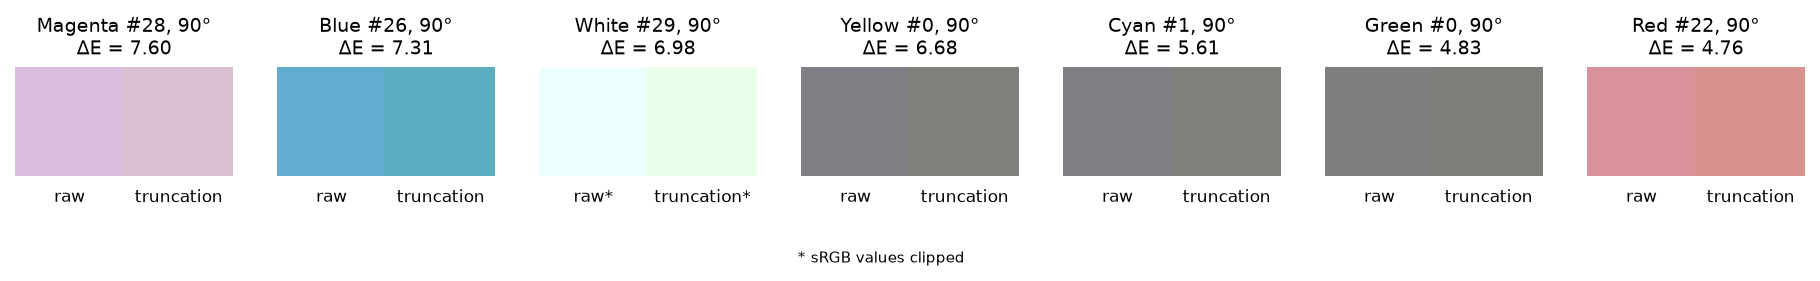
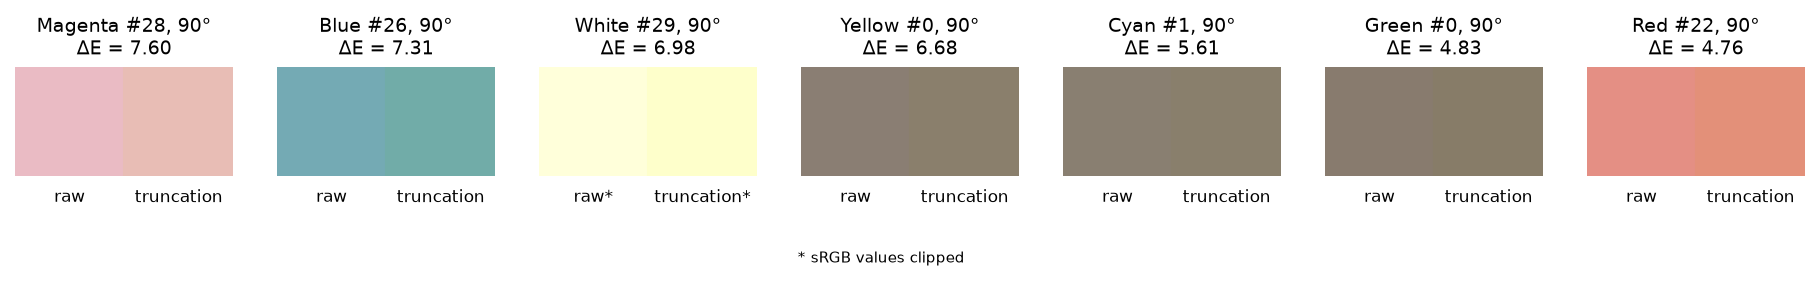
removed chromatic adaptation step

Changed region(s): [[0.0, 0.2278, 0.4308, 0.6263]]

diff --git a/doc/overcoming-spectrophotometer-measurement-limitations/scripts/common.py b/doc/overcoming-spectrophotometer-measurement-limitations/scripts/common.py
@@ -128,8 +128,8 @@ RAMP_HEADER = ["Orientation", "ΔX range", "ΔY range", "ΔZ range", "Δxy mean 
 
 
 def to_srgb(XYZ, wl):
-    """XYZ (D50) adapted to D65 with Bradford, encoded sRGB; returns (rgb clipped, clipped flag)."""
-    rgb = colour.XYZ_to_sRGB(XYZ, colour.XYZ_to_xy(white(wl)), chromatic_adaptation_transform="Bradford")
+    """XYZ encoded as sRGB without chromatic adaptation; returns (rgb clipped, clipped flag)."""
+    rgb = colour.XYZ_to_sRGB(XYZ, chromatic_adaptation_transform=None)
     clipped = (rgb < 0).any(-1) | (rgb > 1).any(-1)
     return np.clip(rgb, 0, 1), clipped
 

diff --git a/doc/overcoming-spectrophotometer-measurement-limitations/README.md b/doc/overcoming-spectrophotometer-measurement-limitations/README.md
@@ -156,9 +156,9 @@ Every method changes the spectrum, so it also changes XYZ. We compare the XYZ of
 | ΔE | Perceived colour difference in CAM16-UCS |
 
 - **ΔE settings.** XYZ is multiplied by 100. The reference white is the perfect reflector under D50, computed on the same 106 bands. The adapting luminance is $L_A = 318.31$ cd/m², the background is $Y_b = 20$ and the surround is *Average*.
-- **Reading ΔE.** Roughly, 1 is a just-noticeable difference for two colours side by side. Differences of 5 and more are obvious.
+- **Reading ΔE.** As a practical guideline here, differences start to become visible above about ΔE 3. This is not a universal threshold: visibility depends on the colours and viewing conditions.
 - **The raw data are not the truth.** They are just the common reference. ΔE tells us how much a method changes the colour. It does not tell us whether the change is correct. We judge correctness separately, with physical plausibility checks.
-- **Swatches.** To show differences visually, XYZ is adapted from D50 to D65 with the Bradford transform and encoded as sRGB. Colours outside sRGB are clipped and marked with `*`.
+- **Swatches.** XYZ values calculated under D50 are converted to sRGB. Colours outside sRGB are clipped and marked with `*`.
 
 For each method we report:
 
